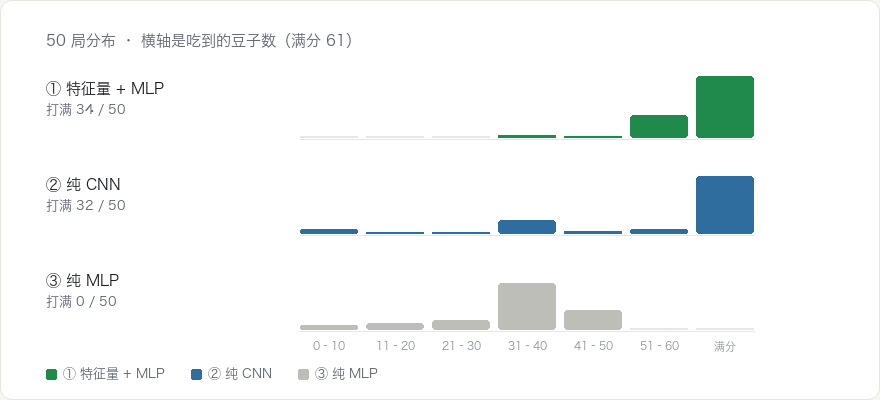
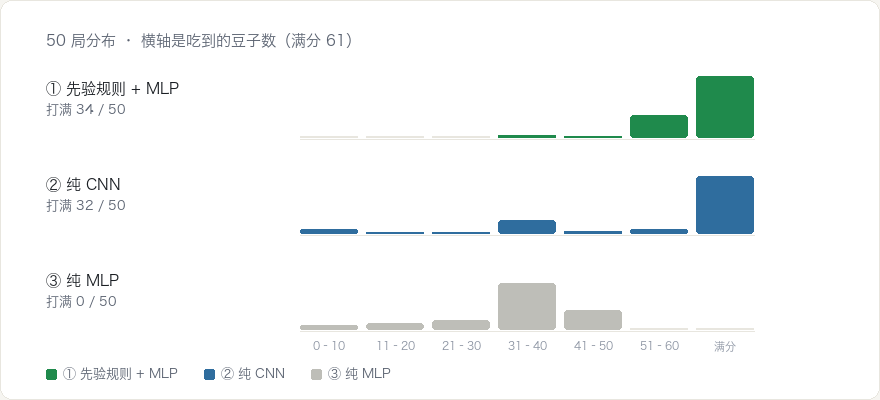
文章：改名为「用强化学习通关贪食蛇」，补齐图片引用
- COMPARISON.md → 用强化学习通关贪食蛇.md，删掉冗余表述
- 新增「05 最后」一节
- 两处 html 占位符（> xxx.png -- html 时候才生成）改成真的 md 图片语法
- fig_histogram.png 重新生成：图例术语统一为「先验规则」

Changed region(s): [[0.2148, 0.9, 0.4295, 0.96], [0.092, 0.9, 0.1841, 0.96], [0.0614, 0.18, 0.2148, 0.24]]

diff --git a/用强化学习通关贪食蛇.md b/用强化学习通关贪食蛇.md
@@ -1,9 +1,4 @@
----
-eyebrow: 强化学习 · 一个对照实验
-title: 强化学习通关【贪吃蛇】
-dek: 用强化学习来玩游戏
-
----
+# 用强化学习通关 贪吃蛇🐍🐍🐍
 
 ## 00 问题
 
@@ -15,10 +10,10 @@ todo：在线体验的地址
 
 **任务**：玩贪吃蛇，8×8 的棋盘。
 
-**目标**：**不告诉它规则。** 不写「前面是墙就转弯」，也不写「朝豆子走」。
-只有一个分数 —— 吃到豆 **+1**，撞死或饿死 **−1**。
+**目标**：不写「前面是墙就转弯」，也不写「朝豆子走」。
+**奖励**只有一个分数 —— 吃到豆 **+1**，撞死或饿死 **−1**。吃最多的豆，就是**目标**。**不告诉它规则。**让他自己学会。
 
-**过程**：使用 PPO 算法，一直训练，直接收敛成一个稳定的策略。
+**训练过程**：使用 **RL PPO 算法**，一直训练，直接收敛成一个稳定的策略。
 
 | | 是什么 | 说明 |
 | --- | --- | --- |
@@ -93,24 +88,21 @@ PS：同样 4 张图，但**拉平成一串 256 个数**再喂进去。信息一
 | ③ 纯 MLP | 33.2 | 0 / 50 | 33.2 | 2 |
 
 先看「打满的局」：① 和 ② 差不多，68% 对 64%，只差两局。
-很容易得出「不给人工特征也行」—— **但这是错的。** 差别在最后两列。
 
-> fig_histogram.png -- html 时候才生成
-
-
+![50 局分布 · 横轴是吃到的豆子数（满分 61）](fig_histogram.png)
 
 **结论：**
 
-1. **先验规则 + MLP** 和 **纯 CNN**，都可以完成任务；纯 MLP 暂时没有看到完成的机会。
+1. **先验规则 + MLP** 和 **纯 CNN**，都可以完成任务，跑满分的成功率相差不大
 
 2. **先验规则 + MLP** 和 **纯 CNN**  虽然都能完成，但他们的成本是有差异的
 
    1. 时间： **39 分钟** vs **3.3 小时**
-   2. 特征：需要 vs 不需要
+   2. 先验规则：需要 vs 不需要
 
-3. **纯 MLP**，完全走不通的
+3. **纯 MLP**，完全走不通的，跑不出稳定的满分
 
-4. **先验规则 + MLP** 和 **纯 CNN** 继续训练，应该是会更加的准确
+4. **先验规则 + MLP** 和 **纯 CNN** 如果继续训练，满分率应该是会持续的提高
 
    
 
@@ -120,9 +112,7 @@ PS：同样 4 张图，但**拉平成一串 256 个数**再喂进去。信息一
 
 **因为它没有位置信息。**
 
->  fig_flatten.png -- html 时候才生成
-
-
+![棋盘上隔着整整一行，但在喂给网络的 256 个数里是紧挨着的](fig_flatten.png)
 
 ### Q2 为什么纯 CNN 反而行？
 
@@ -132,26 +122,19 @@ PS：同样 4 张图，但**拉平成一串 256 个数**再喂进去。信息一
 
 它一条先验规则都没拿到，中位数却是满分，满分率和 ① 只差两局。
 
-> **它内部还自己长出了人算过的东西。** 把网络冻住去读它中间层的 128 个数，
-> 「还剩多少空格」「追不追得到尾巴」这两个读出来的准确度有 0.95~0.97 ——
-> 没人告诉过它「连通块」是什么。把那两个方向抹掉，它就从 50.8 崩到 20 出头。
+> **它内部还自己长出了先验规则。** 把网络冻住去读它中间层的 128 个数，
+> 「还剩多少空格」「追不追得到尾巴」这两个读出来的准确度有 0.95~0.97。
 
-### Q3 什么时候选 纯 CNN 和 先验规则？
+### Q3 什么时候选 纯 CNN 或 先验规则？
 
 **看「你知不知道该看什么」。**
 
-① 在这个实验里几乎每一项都更好，但它靠的是**人先把规则想出来了** ——
-那 12 条规则搬不到别的任务上。
+**先验规则** 是**人先把规则想出来了**，所以前提是，**你已经知道**。有很多场景，比如端到端场景，你是连规则都不知道的。
 
-| 知不知道该看什么 | 选 |
-| --- | --- |
-| 知道 —— 棋盘、表格、传感器读数 | 先验规则 + MLP |
-| 不知道 —— 原始画面、原始音频 | 纯 CNN |
+* 先验规则 + MLP，已知：蛇尾可达，2 步的预测 等先验规则
+* 纯 CNN，多任务，未知先验规则，仅仅是蛇/豆/棋盘的 基础信息
 
-任务多、经常变 → 端到端（特征设计的工作量会翻几十倍）。
-只要一个、要稳 → 先验规则（① 没打满还能拿 55，② 最差只有 2）。
-
-**① 的卖点是更快更稳，② 的卖点是换个任务不用重来。**
+**① 的优点是更快更稳，② 的优点是换个任务不用重来。**
 
 ## 04 结论
 
@@ -159,3 +142,6 @@ PS：同样 4 张图，但**拉平成一串 256 个数**再喂进去。信息一
 - **给对结构，网络能自己学出来。** 纯 CNN 没有先验规则，中位数照样满分。
 - **结构给错就上不去。** 比如 MLP。
 
+## 05 最后
+
+通过使用 强化学习 通关贪食蛇，是一个非常好玩的过程，至少对强化学习，从头到尾，有一个体感上的理解。也对后续更加多的强化学习的任务都不会感到陌生。
